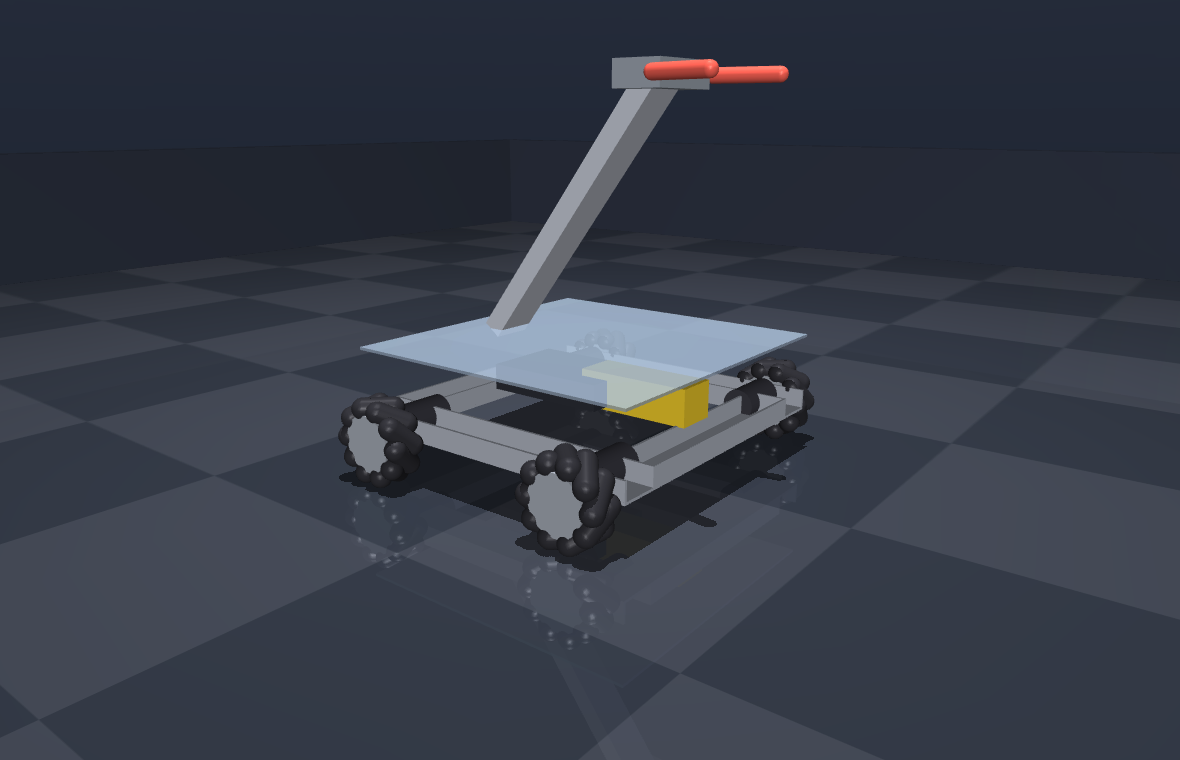
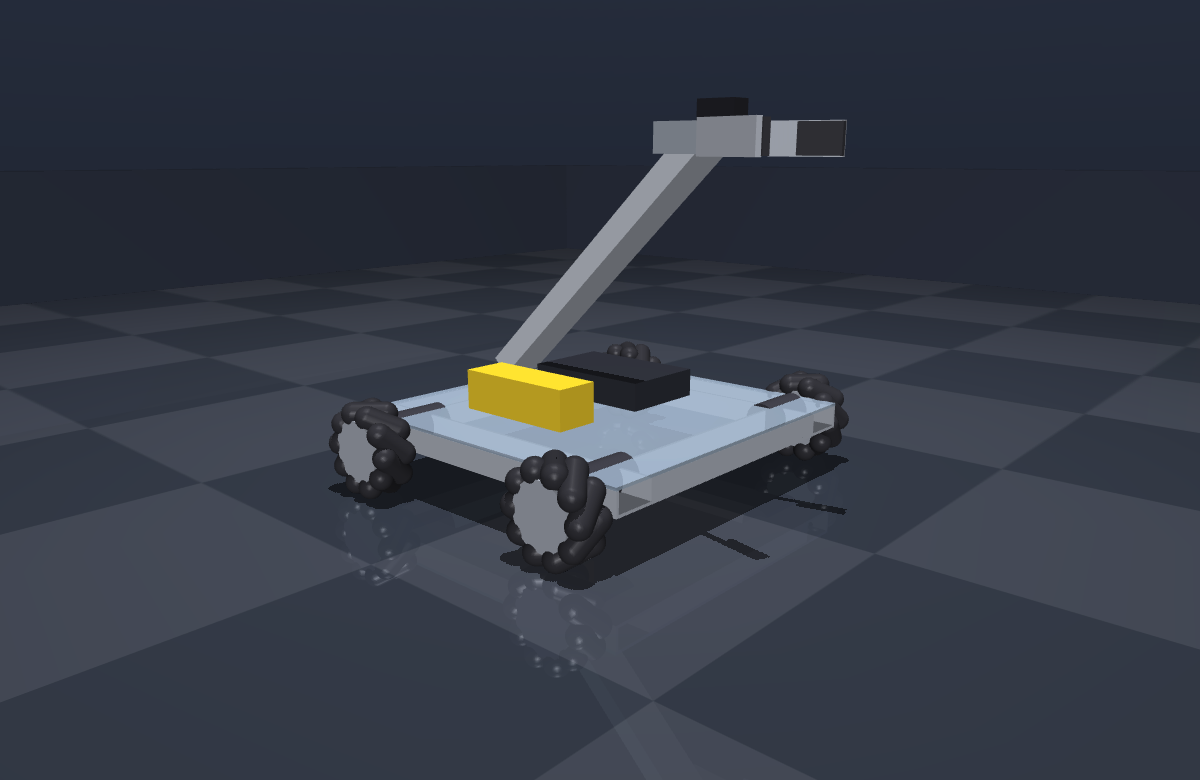
Fix teleop timing and deck alignment; build a real claw
Three bugs reported from actually driving it:

1. Holding a key gave discrete nudges rather than continuous motion. The
   loop did one mj_step + one viewer.sync + one time.sleep(1.94ms) per
   iteration, 500x/sec. Sleeping at that granularity is unreliable and
   pygame's display.flip() can vsync-block a whole 16ms frame, so the sim
   advanced in lurches. Physics and rendering are now decoupled with a
   wall-clock accumulator: measure elapsed time, run however many 2ms steps
   fit, draw once at 60fps. Measured 3.00s sim in 3.0s wall (1.00x) with
   1.63m of continuous travel while held.

2. WASD could be swallowed entirely. poll() returned early whenever a
   joystick was present, so an idle or phantom HID device meant the
   keyboard was never read. Gamepad input now merges with keyboard instead
   of replacing it. The panel also turns red and says CLICK HERE FIRST when
   it lacks keyboard focus, which is the other common cause.

3. The deck floated 66mm above the frame. Rails spanned z -0.045..-0.021
   but the deck sat at +0.045 with nothing between them. The vertical stack
   is now contiguous: rails -> deck -> electronics, and the arm mounts on
   the deck.

Also: the claw was two red capsules. It is now two aluminium plates with
inward-facing grip pads and a visible servo body.

diff --git a/teleop.py b/teleop.py
@@ -31,7 +31,7 @@ from robot import build_mjcf
 from motors import Robot
 
 DEADZONE = 0.08
-PANEL_W, PANEL_H = 460, 260
+PANEL_W, PANEL_H = 460, 296
 
 
 def deadzone(v):
@@ -83,28 +83,47 @@ class Input:
                 elif e.button == 6:
                     self.reset = True
 
-        if self.js:
-            ax = lambda i: deadzone(self.js.get_axis(i)) if self.js.get_numaxes() > i else 0.0
-            lt = (self.js.get_axis(4) + 1) / 2 if self.js.get_numaxes() > 4 else 0.0
-            rt = (self.js.get_axis(5) + 1) / 2 if self.js.get_numaxes() > 5 else 0.0
-            return dict(fwd=-ax(1), strafe=ax(0), turn=ax(3), arm=rt - lt)
-
-        # get_pressed() is real held state -- no auto-repeat guesswork needed.
+        # Keyboard: get_pressed() is real held state, so holding a key means
+        # "keep going" rather than one impulse per press.
         k = pygame.key.get_pressed()
         axis = lambda a, b: float(k[a]) - float(k[b])
-        return dict(
+        out = dict(
             fwd=axis(pygame.K_w, pygame.K_s),
             strafe=axis(pygame.K_d, pygame.K_a),
             turn=axis(pygame.K_e, pygame.K_q),
             arm=axis(pygame.K_r, pygame.K_f),
         )
 
+        # A connected gamepad ADDS to the keyboard rather than replacing it.
+        # Returning early on self.js meant a controller that was plugged in but
+        # idle silently swallowed WASD -- and in WSL a phantom HID device is
+        # enough to trigger that.
+        if self.js:
+            ax = lambda i: deadzone(self.js.get_axis(i)) if self.js.get_numaxes() > i else 0.0
+            lt = (self.js.get_axis(4) + 1) / 2 if self.js.get_numaxes() > 4 else 0.0
+            rt = (self.js.get_axis(5) + 1) / 2 if self.js.get_numaxes() > 5 else 0.0
+            for key, v in dict(fwd=-ax(1), strafe=ax(0), turn=ax(3),
+                               arm=rt - lt).items():
+                if abs(v) > abs(out[key]):
+                    out[key] = v
+        return out
+
+    @property
+    def focused(self):
+        """Does this window have keyboard focus? If not, WASD goes nowhere."""
+        return bool(pygame.key.get_focused())
+
     def draw(self, bot, grip, arm_angle):
-        self.screen.fill((22, 24, 30))
+        # Red background when unfocused: the single most common "it doesn't
+        # work" cause is typing into the 3D window instead of this one.
+        self.screen.fill((22, 24, 30) if self.focused else (74, 26, 26))
         x, y, h = bot.pose()
         src = self.js.get_name()[:26] if self.js else "keyboard (click this window)"
 
         rows = [
+            (self.big,
+             "READY - drive it" if self.focused else "CLICK HERE FIRST",
+             (110, 220, 140) if self.focused else (255, 190, 90)),
             (self.big, f"{'FIELD-CENTRIC' if self.field_centric else 'ROBOT-CENTRIC'}",
              (110, 200, 255) if self.field_centric else (170, 175, 185)),
             (self.font, f"input   {src}", (140, 145, 155)),
@@ -146,49 +165,68 @@ def main():
         viewer.cam.distance = 2.0
         viewer.cam.elevation = -25
 
+        # Physics and rendering are decoupled. The old loop did one mj_step, one
+        # viewer.sync and one time.sleep(1.94 ms) per iteration, 500 times a
+        # second. Sleeping at that granularity is unreliable, and pygame's
+        # display.flip() can vsync-block for a whole 16 ms frame -- so the sim
+        # advanced in lurches, which is why holding a key felt like discrete
+        # nudges rather than continuous motion.
+        #
+        # Now: measure real elapsed time, run however many 2 ms physics steps
+        # fit inside it, then draw once. The command is held across every step
+        # in the batch, so holding a key really does mean "keep going".
+        FRAME = 1.0 / 60.0
+        dt_phys = model.opt.timestep
+        accumulator = 0.0
+        last = time.perf_counter()
+
         while viewer.is_running() and not inp.quit:
-            t0 = time.time()
+            now = time.perf_counter()
+            accumulator += min(now - last, 0.25)   # cap: a stall can't spiral
+            last = now
+
             s = inp.poll()
 
             if inp.reset:
                 mujoco.mj_resetData(model, data)
                 bot.stow()
                 arm_target, grip = 1.2, 0.0
+                accumulator = 0.0
 
-            fwd, strafe = s["fwd"], s["strafe"]
-            if inp.field_centric:
-                h = bot.heading()
-                fwd, strafe = (fwd * np.cos(-h) - strafe * np.sin(-h),
-                               fwd * np.sin(-h) + strafe * np.cos(-h))
-            bot.drive(fwd, strafe, s["turn"])
+            while accumulator >= dt_phys:
+                fwd, strafe = s["fwd"], s["strafe"]
+                if inp.field_centric:
+                    h = bot.heading()
+                    fwd, strafe = (fwd * np.cos(-h) - strafe * np.sin(-h),
+                                   fwd * np.sin(-h) + strafe * np.cos(-h))
+                bot.drive(fwd, strafe, s["turn"])
 
-            # Hold wherever the arm was left when the key/trigger is released.
-            if abs(s["arm"]) > 0.05:
-                manual_arm = True
-                bot.set_arm(s["arm"])
-            else:
-                if manual_arm:
-                    arm_target = float(data.joint("shoulder").qpos[0])
-                    manual_arm = False
-                bot.hold_arm(arm_target)
-            bot.level_wrist(0.0)
+                # Hold wherever the arm was left when the key/trigger is released.
+                if abs(s["arm"]) > 0.05:
+                    manual_arm = True
+                    bot.set_arm(s["arm"])
+                else:
+                    if manual_arm:
+                        arm_target = float(data.joint("shoulder").qpos[0])
+                        manual_arm = False
+                    bot.hold_arm(arm_target)
+                bot.level_wrist(0.0)
 
-            grip = min(1.0, grip + 0.05) if inp.grip_closed else max(0.0, grip - 0.05)
-            bot.set_grip(grip)
+                grip = (min(1.0, grip + 0.02) if inp.grip_closed
+                        else max(0.0, grip - 0.02))
+                bot.set_grip(grip)
 
-            bot.apply()
-            mujoco.mj_step(model, data)
+                bot.apply()
+                mujoco.mj_step(model, data)
+                accumulator -= dt_phys
 
             viewer.cam.lookat[:] = data.body("chassis").xpos
             viewer.sync()
+            inp.draw(bot, grip, float(data.joint("shoulder").qpos[0]))
 
-            if data.time - last_draw > 0.05:
-                inp.draw(bot, grip, float(data.joint("shoulder").qpos[0]))
-                last_draw = data.time
-
-            lag = model.opt.timestep - (time.time() - t0)
-            if lag > 0:
-                time.sleep(lag)
+            slack = FRAME - (time.perf_counter() - now)
+            if slack > 0:
+                time.sleep(slack)
 
     pygame.quit()
 

diff --git a/robot.py b/robot.py
@@ -84,21 +84,42 @@ def build_mjcf(wheel_preset=wheels.DEFAULT, push_block_kg=0.0):
         st.u_channel("cross_b", CHASSIS_W - st.CHANNEL_W * 2, (-rail_x, 0, frame_z), axis="y"),
     ])
 
-    deck = st.plate("deck", CHASSIS_L, CHASSIS_W, (0, 0, CHASSIS_H / 2))
+    # The deck bolts to the TOP FLANGE of the rails. Previously it was placed at
+    # CHASSIS_H/2 while the rails only reached -CHASSIS_H/2 + CHANNEL_H, leaving
+    # the deck floating 66 mm above the frame with nothing under it.
+    rail_top = -CHASSIS_H / 2 + st.CHANNEL_H
+    deck_z = rail_top + st.PLATE_T / 2
+    deck = st.plate("deck", CHASSIS_L, CHASSIS_W, (0, 0, deck_z))
+    deck_top = deck_z + st.PLATE_T / 2
 
     motors = "\n        ".join(
         st.motor(f"motor_{n}", (x, y * 0.72, frame_z), euler="1.5708 0 0")
         for n, x, y, _ in WHEELS)
 
     electronics = "\n        ".join([
-        st.box_part("control_hub", (0.145, 0.095, 0.030), (-0.03, 0.0, frame_z + 0.030),
+        st.box_part("control_hub", (0.145, 0.095, 0.030), (-0.03, 0.055, deck_top + 0.015),
                     density=900, rgba="0.15 0.16 0.19 1"),
-        st.box_part("battery", (0.135, 0.048, 0.042), (0.075, 0.0, frame_z + 0.032),
+        st.box_part("battery", (0.135, 0.048, 0.042), (-0.03, -0.075, deck_top + 0.021),
                     density=2300, rgba="0.85 0.72 0.15 1"),
     ])
 
     wheel_z = -CHASSIS_H / 2
     chassis_z = preset.radius + CHASSIS_H / 2 + 0.002
+    # Each finger: a flat aluminium plate reaching forward, plus an inward-facing
+    # grip pad at the tip. Two red capsules did not look like anything real.
+    def claw(side, sgn):
+        return "\n            ".join([
+            f'<geom name="finger_{side}_plate" type="box" pos="{FINGER_LEN/2:.4f} 0 0" '
+            f'size="{FINGER_LEN/2:.4f} 0.0035 0.016" density="{st.AL_6061}" '
+            f'contype="2" conaffinity="1" group="2" rgba="0.66 0.68 0.72 1"/>',
+            f'<geom name="finger_{side}_pad" type="box" '
+            f'pos="{FINGER_LEN*0.72:.4f} {-sgn*0.007:.4f} 0" '
+            f'size="{FINGER_LEN*0.30:.4f} 0.004 0.015" density="1100" '
+            f'contype="2" conaffinity="1" group="2" '
+            f'friction="3.5 0.05 0.005" rgba="0.20 0.20 0.22 1"/>',
+        ])
+    claw_l, claw_r = claw("l", +1), claw("r", -1)
+
     arm_structure = st.u_channel("arm_ch", ARM_LEN, (ARM_LEN / 2, 0, 0), axis="x",
                                  rgba="0.70 0.72 0.76 1")
 
@@ -176,7 +197,7 @@ def build_mjcf(wheel_preset=wheels.DEFAULT, push_block_kg=0.0):
 
       <!-- Arm: shoulder pivot at the back, wrist at the far end, 2-finger claw.
            Deliberately simple -- this is the "one mechanism that works" shape. -->
-      <body name="arm" pos="{-CHASSIS_L/2 + 0.05} 0 {CHASSIS_H/2}">
+      <body name="arm" pos="{-CHASSIS_L/2 + 0.05} 0 {deck_top + 0.028:.5f}">
         <!-- axis is -Y so that positive angle raises the arm, which is what
              anyone reading the code will assume. Lower limit reaches the floor
              out front; upper limit tucks it back over the chassis. -->
@@ -188,17 +209,18 @@ def build_mjcf(wheel_preset=wheels.DEFAULT, push_block_kg=0.0):
           <geom name="wristg" type="box" size="0.028 0.045 0.014" density="1300"
                 contype="2" conaffinity="1" rgba="0.55 0.58 0.62 1"/>
 
-          <body name="finger_l" pos="0.026 0.055 0">
+          <!-- Servo body, so there is something visibly driving the claw -->
+          <geom name="grip_servo" type="box" pos="0.014 0 0.024" size="0.020 0.011 0.010"
+                density="1400" contype="0" conaffinity="0" group="2"
+                rgba="0.12 0.12 0.14 1"/>
+
+          <body name="finger_l" pos="0.030 0.055 0">
             <joint name="grip_l" type="hinge" axis="0 0 1" range="-0.40 0.40" damping="0.05"/>
-            <geom name="finger_lg" type="capsule" size="0.008"
-                  fromto="0 0 0 {FINGER_LEN} 0 0" density="1300"
-                  contype="2" conaffinity="1" friction="3.5 0.05 0.005" rgba="0.90 0.35 0.30 1"/>
+            {claw_l}
           </body>
-          <body name="finger_r" pos="0.026 -0.055 0">
+          <body name="finger_r" pos="0.030 -0.055 0">
             <joint name="grip_r" type="hinge" axis="0 0 1" range="-0.40 0.40" damping="0.05"/>
-            <geom name="finger_rg" type="capsule" size="0.008"
-                  fromto="0 0 0 {FINGER_LEN} 0 0" density="1300"
-                  contype="2" conaffinity="1" friction="3.5 0.05 0.005" rgba="0.90 0.35 0.30 1"/>
+            {claw_r}
           </body>
         </body>
       </body>
